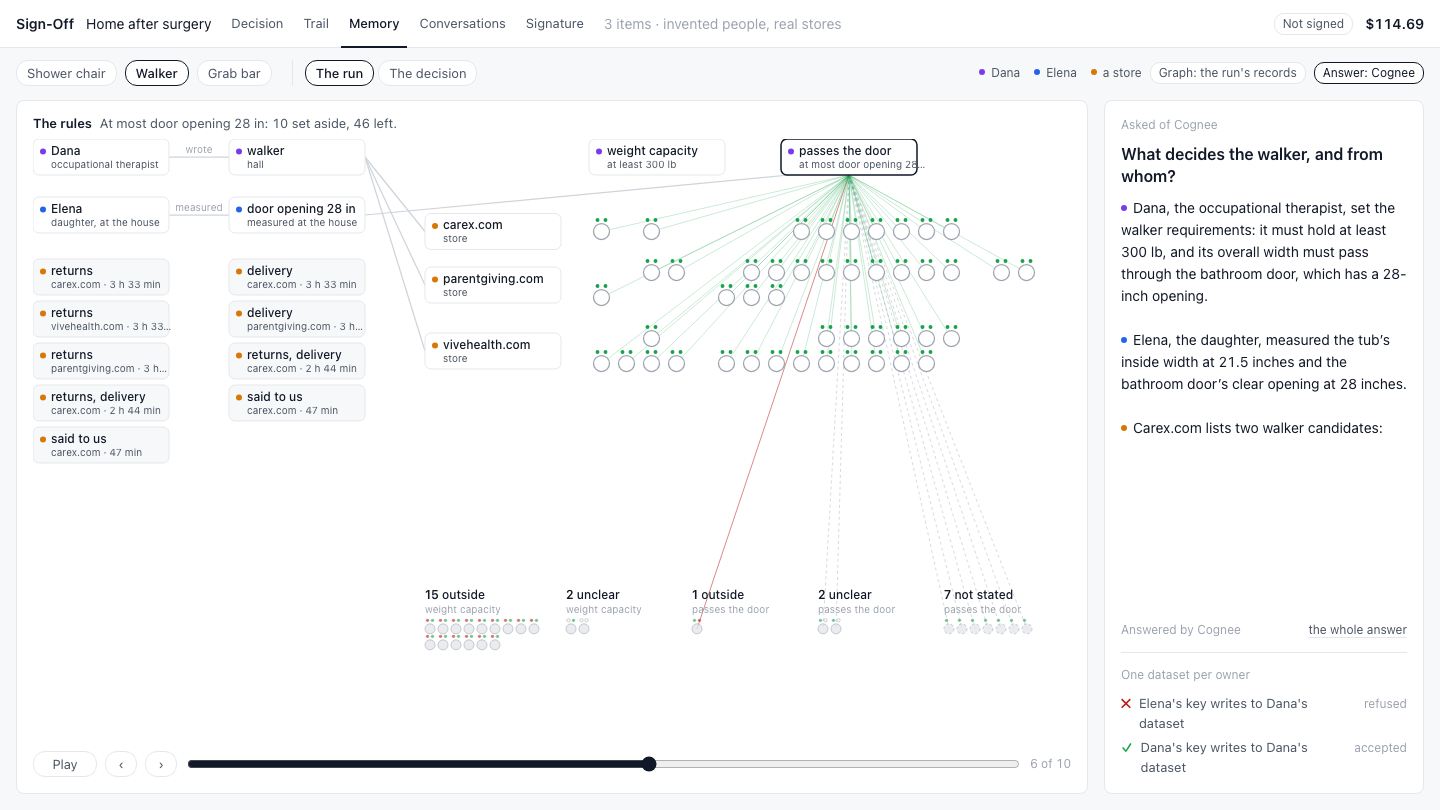
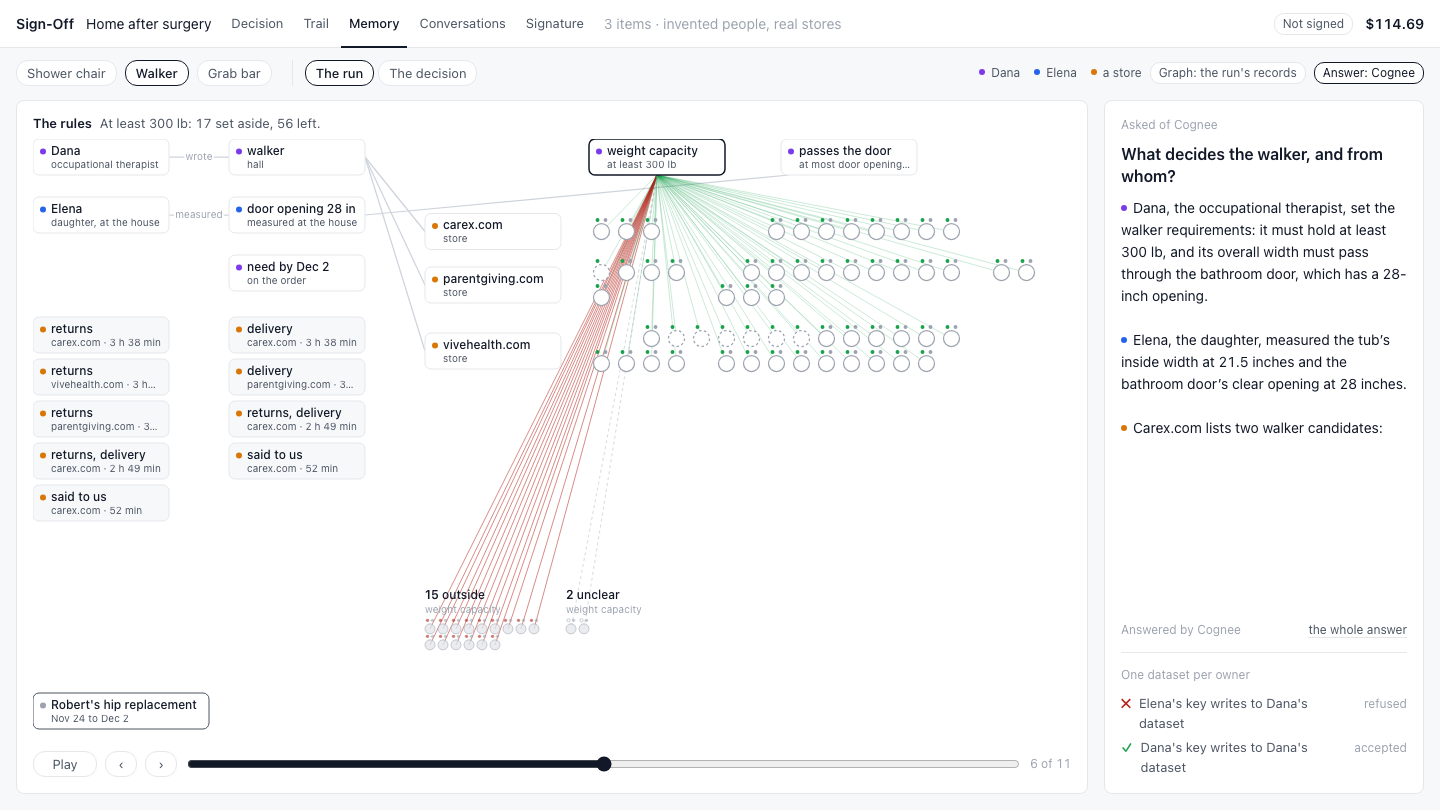
GRAPH: event stage polish; verdict dots follow their rule's stage; shots of all eleven stages

diff --git a/web/graph/explore.js b/web/graph/explore.js
@@ -9,8 +9,8 @@ const esc = (s) => String(s ?? "").replace(/[&<>"]/g, (c) => ({ "&": "&amp;", "<
 const ownerClass = (o) => (o === "issuer" || o === "shopper" ? o : o === "system" || o === "web" ? "" : "store");
 const short = (s, n) => (String(s || "").length > n ? String(s).slice(0, n - 1).trimEnd() + "…" : String(s || ""));
 const clock = (at) => (at ? String(at).slice(11, 16) : "");
-const FW = px(180);                                                // a fact quoted from a message is a wider card
-const boxW = (n) => (n.kind === "context_fact" ? FW : CW);
+const FW = px(176);                                                // a fact quoted from a message is a wider card
+const boxW = (n) => (n.kind === "context_fact" || n.kind === "event" ? FW : CW);
 const REASONS = ["outside", "unclear", "not stated", "struck", "struck before"];
 
 let X = null;      // the mounted exploration: data, elements, current stage and positions
@@ -52,7 +52,7 @@ function plan(k) {
     notes.forEach((n, i) => put(n.id, XI, i * (CH + px(10))));
     const fy = new Map();
     known.forEach((n, i) => { fy.set(n.id, i * (CH + px(6))); put(n.id, XS, fy.get(n.id), { w: FW, o: k >= iOrder && !n.used ? 0.4 : 1 }); });
-    const XD = XS + FW + px(150), XE = XD + CW + px(24);
+    const XD = XS + FW + px(166), XE = XD + CW + px(24);
     const want = (id) => { const ys = data.edges.filter((e) => e.feeds && e.to === id).map((e) => fy.get(e.from)); return ys.length ? ys.reduce((a, b) => a + b, 0) / ys.length : null; };
     const stack = (list, x) => {
       let prev = -Infinity, last = 0;
@@ -65,7 +65,7 @@ function plan(k) {
     stack([item, ...limits, ...values, ...facts], XE);
     const issuer = people.find((n) => n.id === "person:issuer"), shopper = people.find((n) => n.id === "person:shopper");
     if (issuer) put(issuer.id, XD, P.get(item.id).y);
-    if (shopper) put(shopper.id, XD, Math.max(want(shopper.id) ?? 0, facts.length ? P.get(facts[0].id).y : 0, (issuer ? P.get(item.id).y + CH + px(10) : 0)));
+    if (shopper) put(shopper.id, XD, Math.max(want(shopper.id) ?? 0, issuer ? P.get(item.id).y + CH + px(10) : 0));
     const idle = known.find((n) => !n.used);
     if (idle && k >= iOrder) texts.push({ x: XS + FW + px(10), y: fy.get(idle.id) + CH / 2 + px(3), cls: "gs", html: "held · not used for this order" });
   } else {
@@ -157,8 +157,8 @@ function plan(k) {
         lines.push({ a: pid, b: m.id, cls: "" });
         lines.push({ raw: [xm + MW, ly + px(9), xg, ly + px(9)], cls: m.stopped ? "fails" : "lit" });
         let cx = xc;
-        (m.removed || []).slice(0, 3).forEach((c) => { texts.push({ x: cx, y: ly + px(5.5), cls: "chip", html: esc(short(c.text, 11)) }); cx += px(64); });
-        if ((m.removed || []).length > 3) texts.push({ x: cx, y: ly + px(5.5), cls: "gs", html: `+${m.removed.length - 3}` });
+        (m.removed || []).slice(0, 2).forEach((c) => { texts.push({ x: cx, y: ly + px(5.5), cls: "chip", html: esc(short(c.text, 11)) }); cx += px(66); });
+        if ((m.removed || []).length > 2) texts.push({ x: cx, y: ly + px(5.5), cls: "gs", html: `+${m.removed.length - 2}` });
         if (m.stopped) texts.push({ x: xg + px(8), y: ly + px(12.5), cls: "stop", html: "stopped at the guard" });
         const r = data.nodes.find((n) => n.kind === "reply" && n.message === m.id);
         if (r) { P.set(r.id, { x: xg + px(18), y: ly, o: 1, w: RW, h: px(18) }); lines.push({ raw: [xg, ly + px(9), xg + px(18), ly + px(9)], cls: "lit" }); }
@@ -177,7 +177,7 @@ function plan(k) {
     const where = !born ? { x: src.x + CW / 2, y: src.y + CH / 2 } : gone || line || h;
     P.set(p.id, { ...where, o: born ? (gone ? 0.75 : 1) : 0, r: gone ? RS : big.has(p.id) ? RB : ranked ? px(3.6) : R,
       big: big.has(p.id) && !gone, aside: !!gone, dashed: k >= iRead && (S[iRead]?.not_stated || []).includes(p.id),
-      read: k >= iRead, pick: ranked && p.picked, checked: limits.filter((l) => (added.get(l.id) ?? 99) <= k).map((l) => l.id) });
+      read: k >= iRead, pick: ranked && p.picked, checked: limits.filter((l) => { const i = S.findIndex((x) => x.limit === l.id); return i >= 0 && i <= k; }).map((l) => l.id) });
   }
   if (web) put(web.id, XS, YROW - CH / 2, ranked ? { o: 0 } : {});
   reviews.forEach((r) => {
@@ -196,7 +196,7 @@ function plan(k) {
       label: e.verb + (e.matches === true ? " · matches" : e.matches === false ? " · differs" : ""), lt: nodes.get(e.to)?.kind === "person" ? 0.5 : 0.27 }); }
     else if (e.verb === "says") card(e.from, e.to, "", "");
     else if (e.verb === "wrote" && nodes.get(e.to)?.kind === "context_message") { if (nodes.get(e.from)?.kind === "context_person") card(e.from, e.to, "", ""); }
-    else if (e.verb === "wrote" || e.verb === "measured") card(e.from, e.to, "", e.verb);
+    else if (e.verb === "wrote" || e.verb === "measured") card(e.from, e.to, "", eventPhase ? "" : e.verb);
     else if (e.verb === "searches" && nodes.get(e.to)?.kind === "store" && k >= iSearch && !ranked) card(e.from, e.to, k === iSearch ? "lit" : "", k === iSearch ? e.label : "");
     else if (e.verb === "requires" && nodes.get(e.to)?.kind === "home_fact") { if (vis(e.to) && vis(e.from)) lines.push({ a: e.to, b: e.from, cls: "", toCorner: true, card: true }); }
     else if (e.verb === "waits for" && k >= iSign && iSign >= 0) lines.push({ a: e.from, b: e.to, cls: "lit", toCard: true });
@@ -296,7 +296,7 @@ function dress(k, target) {
     if (n.kind === "context_fact") g.classList.toggle("lit", k === data.stages.findIndex((s) => s.id === "order") && !!n.feeds_here);
     if (n.kind !== "product") continue;
     g.classList.toggle("aside", p.aside); g.classList.toggle("dashed", p.dashed); g.classList.toggle("pick", !!p.pick);
-    g.classList.toggle("big", p.big); g.classList.toggle("read", p.read);
+    g.classList.toggle("big", p.big); g.classList.toggle("read", p.read && p.r > px(3.8));
     const limits = data.nodes.filter((x) => x.kind === "limit");
     g.querySelectorAll(".q").forEach((q, i) => {
       const lim = limits[i], v = lim ? n.checks[lim.id.replace(/^limit:/, "")] : null;
@@ -307,10 +307,9 @@ function dress(k, target) {
   X.lineEls = target.lines.map((l) => {
     const e = el("line", { class: `ln ${l.cls}` });
     X.gl.appendChild(e);
-    const t = l.label ? el("text", { class: "lt mid" }, esc(l.label)) : null;
-    if (t) X.gl.appendChild(t);
-    return { l, e, t };
+    return { l, e, t: l.label ? el("text", { class: "lt mid" }, esc(l.label)) : null };
   });
+  X.lineEls.forEach(({ t }) => t && X.gl.appendChild(t));
   target.texts.forEach((t) => X.gt.appendChild(el("text", { class: t.cls, x: t.x, y: t.y }, t.html)));
 }
 

diff --git a/web/graph/graph.css b/web/graph/graph.css
@@ -118,3 +118,6 @@ svg.xp .ln.fails { stroke: var(--bad); }
 svg.xp .chip { font: 0.625rem var(--f); fill: var(--t2); stroke: none; text-anchor: start; text-decoration: line-through; }
 svg.xp .stop { font: 0.625rem var(--f); fill: var(--bad); stroke: none; text-anchor: start; }
 .side .more { margin-left: auto; border: 0; background: none; cursor: pointer; font-size: 0.75rem; padding: 0; }
+svg.xp .k-context_fact.lit .b { stroke: var(--t1); stroke-width: 1.5; }
+svg.xp .ln.lit { stroke: var(--t2); stroke-width: 1.25; }
+svg.xp .k-event .b { stroke: var(--t2); }
